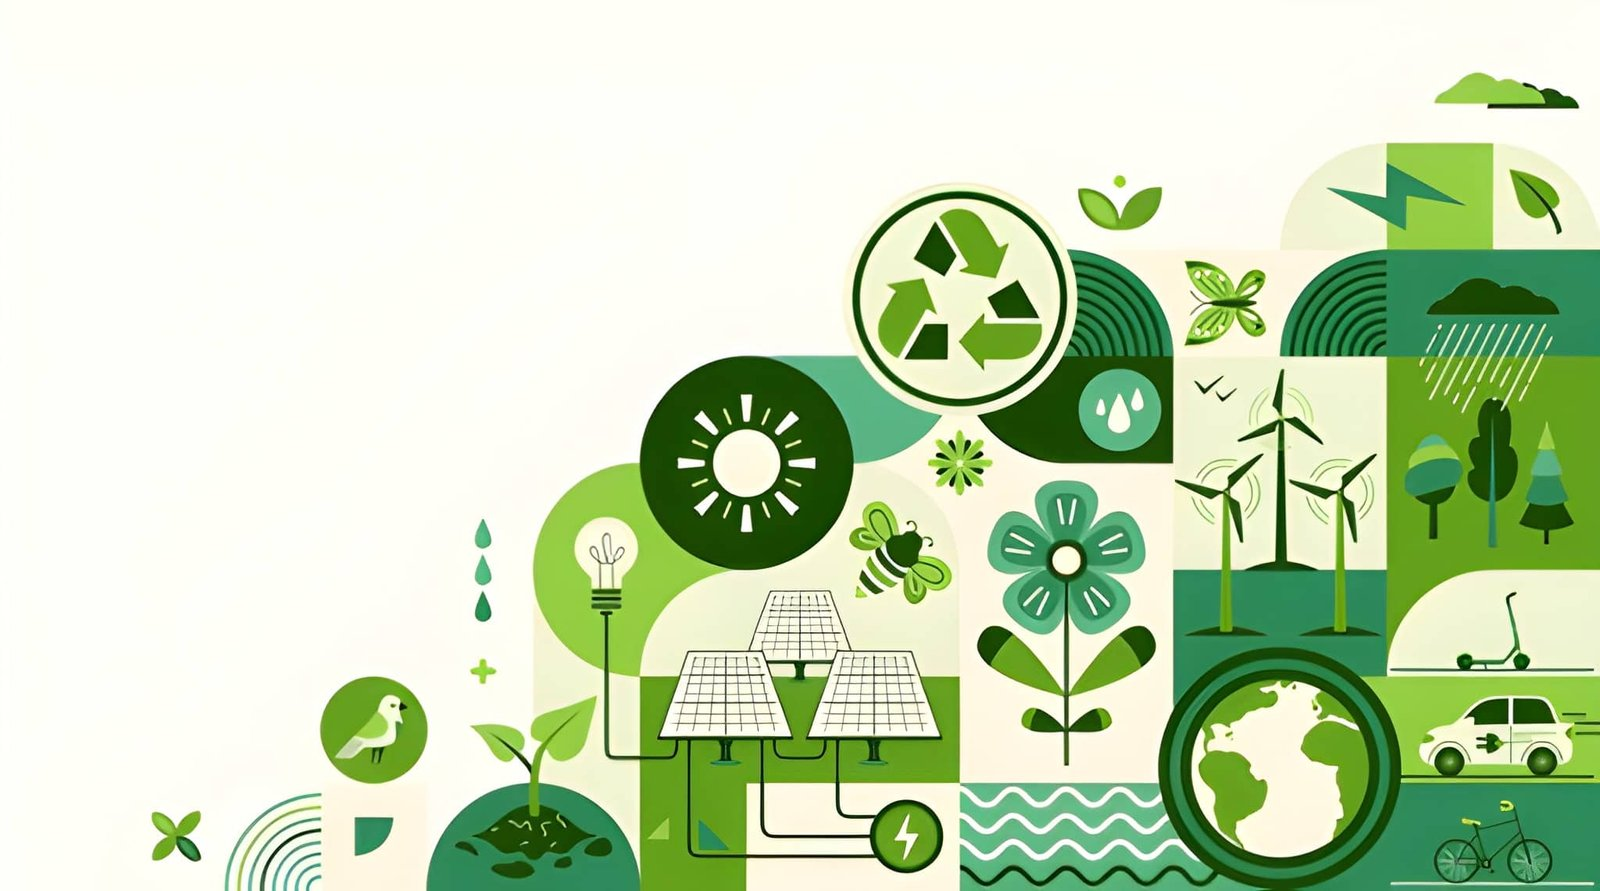
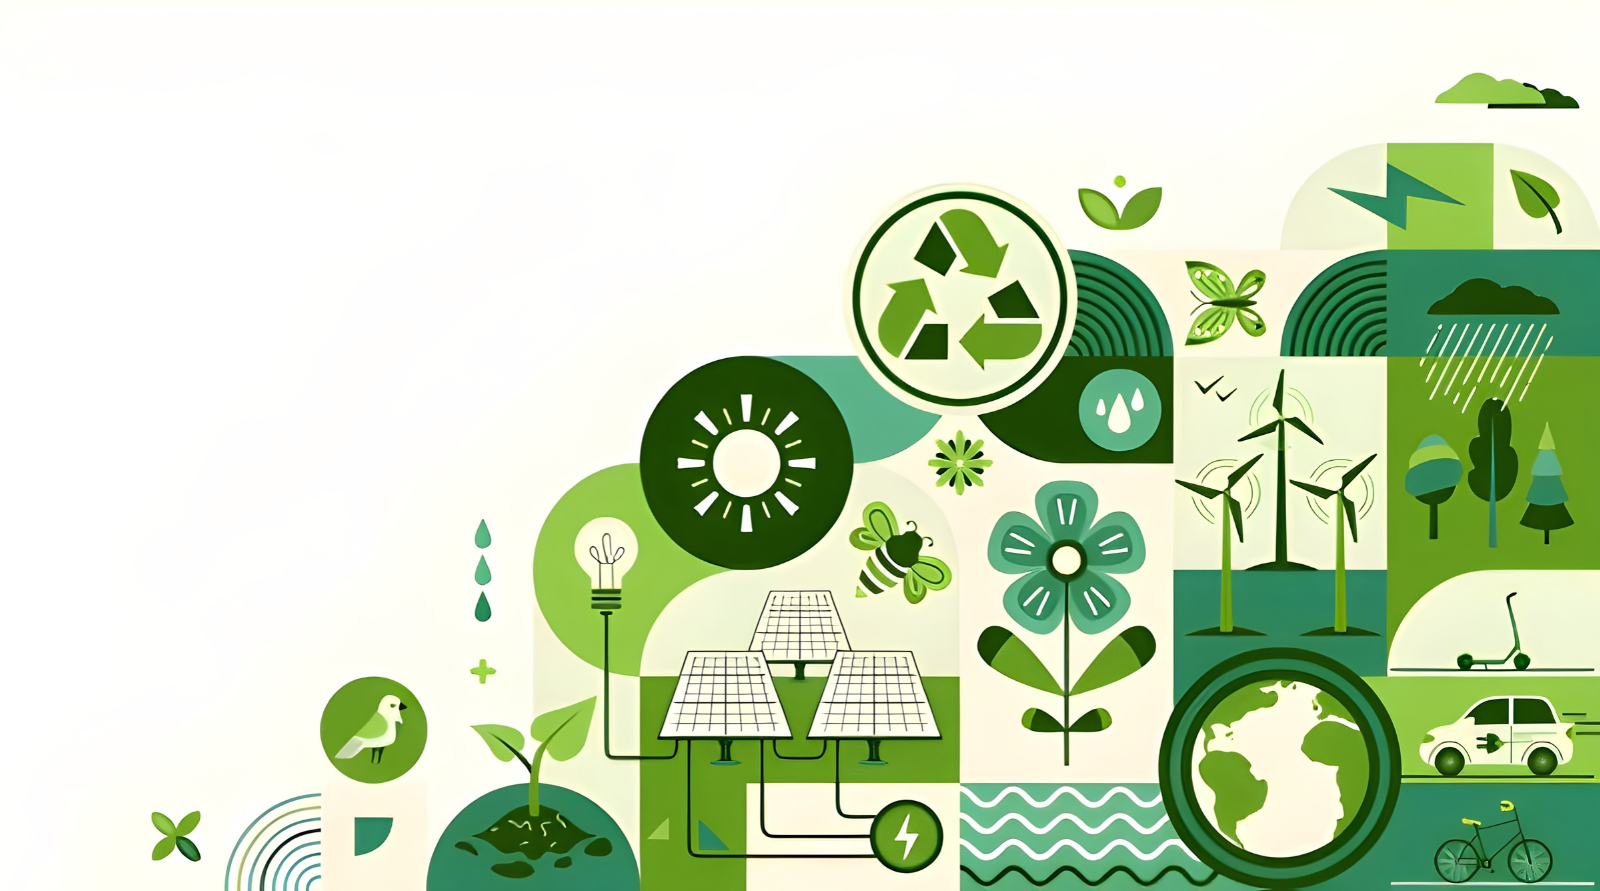
denzel

diff --git a/marketpoin.css b/marketpoin.css
@@ -1,6 +1,6 @@
 /* ===== topbar (class dari top_nav.php) ===== */
 :root { --line: #e2e8d5; --ink: #2e4704; }
-body { margin: 0; background: #f5fbe6; }
+body { margin: 0; background: #f5fbe6; font-family: 'Plus Jakarta Sans', sans-serif; }
 
 .navbar {
   display: flex;
@@ -44,7 +44,7 @@ body { margin: 0; background: #f5fbe6; }
 /* hero */
 .mp-hero { position: relative; overflow: hidden; background: #233d4d; border-radius: 0 0 50px 50px; }
 .mp-hero::before { content: ""; position: absolute; inset: 0; opacity: .4;
-  background: url(images/bg_market.jpg) center / cover no-repeat; }
+  background: url(images/bg_market.jpg) center bottom / 100% auto no-repeat; }
 .mp-hero-in { position: relative; padding: 16px 65px 49px; }
 .mp-h1 { margin: 0; font: 400 64px/1.2 'DM Serif Display', serif; color: #f5fbe6; }
 .mp-h1 em { font-style: normal; color: #fe7f2d; }

diff --git a/tukarewallet.css b/tukarewallet.css
@@ -1,6 +1,6 @@
 /* ===== topbar (class dari top_nav.php) ===== */
 :root { --line: #e2e8d5; --ink: #2e4704; }
-body { margin: 0; background: #f5fbe6; }
+body { margin: 0; background: #f5fbe6; font-family: 'Plus Jakarta Sans', sans-serif; }
 
 .navbar {
   display: flex;
@@ -44,7 +44,7 @@ body { margin: 0; background: #f5fbe6; }
 /* hero */
 .te-hero { position: relative; overflow: hidden; background: #233d4d; border-radius: 0 0 50px 50px; }
 .te-hero::before { content: ""; position: absolute; inset: 0; opacity: .4;
-  background: url(images/bg_market.jpg) center / cover no-repeat; }
+  background: url(images/bg_market.jpg) center bottom / 100% auto no-repeat; }
 .te-hero-in { position: relative; padding: 16px 65px 62px; }
 .te-h1 { margin: 0; font: 400 64px/1.2 'DM Serif Display', serif; color: #f5fbe6; }
 .te-h1 em { font-style: normal; color: #fe7f2d; }

diff --git a/tukarpulsa.css b/tukarpulsa.css
@@ -1,6 +1,6 @@
 /* ===== topbar (class dari top_nav.php) ===== */
 :root { --line: #e2e8d5; --ink: #2e4704; }
-body { margin: 0; background: #f5fbe6; }
+body { margin: 0; background: #f5fbe6; font-family: 'Plus Jakarta Sans', sans-serif; }
 
 .navbar {
   display: flex;
@@ -44,7 +44,7 @@ body { margin: 0; background: #f5fbe6; }
 /* hero */
 .tp-hero { position: relative; overflow: hidden; background: #233d4d; border-radius: 0 0 50px 50px; }
 .tp-hero::before { content: ""; position: absolute; inset: 0; opacity: .4;
-  background: url(images/bg_market.jpg) center / cover no-repeat; }
+  background: url(images/bg_market.jpg) center bottom / 100% auto no-repeat; }
 .tp-hero-in { position: relative; padding: 16px 65px 62px; }
 .tp-h1 { margin: 0; font: 400 64px/1.2 'DM Serif Display', serif; color: #f5fbe6; }
 .tp-h1 em { font-style: normal; color: #fe7f2d; }

diff --git a/konfirmasidaurulang.css b/konfirmasidaurulang.css
@@ -1,6 +1,6 @@
 /* ===== topbar (class dari top_nav.php) ===== */
 :root { --line: #e2e8d5; --ink: #2e4704; }
-body { margin: 0; background: #f5fbe6; }
+body { margin: 0; background: #f5fbe6; font-family: 'Plus Jakarta Sans', sans-serif; }
 
 .navbar {
   display: flex;

diff --git a/konfirmasiewallet.css b/konfirmasiewallet.css
@@ -1,6 +1,6 @@
 /* ===== topbar (class dari top_nav.php) ===== */
 :root { --line: #e2e8d5; --ink: #2e4704; }
-body { margin: 0; background: #f5fbe6; }
+body { margin: 0; background: #f5fbe6; font-family: 'Plus Jakarta Sans', sans-serif; }
 
 .navbar {
   display: flex;

diff --git a/konfirmasipulsa.css b/konfirmasipulsa.css
@@ -1,6 +1,6 @@
 /* ===== topbar (class dari top_nav.php) ===== */
 :root { --line: #e2e8d5; --ink: #2e4704; }
-body { margin: 0; background: #f5fbe6; }
+body { margin: 0; background: #f5fbe6; font-family: 'Plus Jakarta Sans', sans-serif; }
 
 .navbar {
   display: flex;
